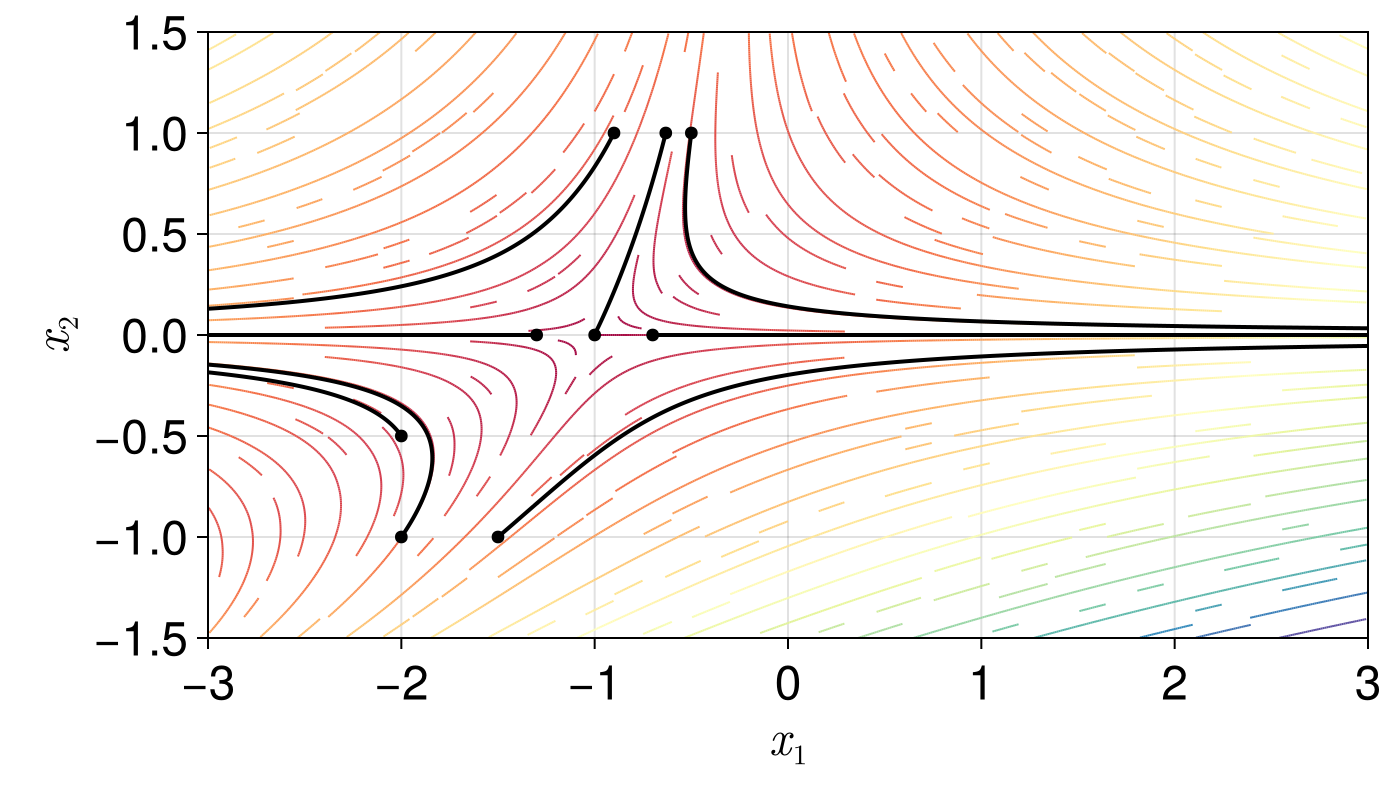
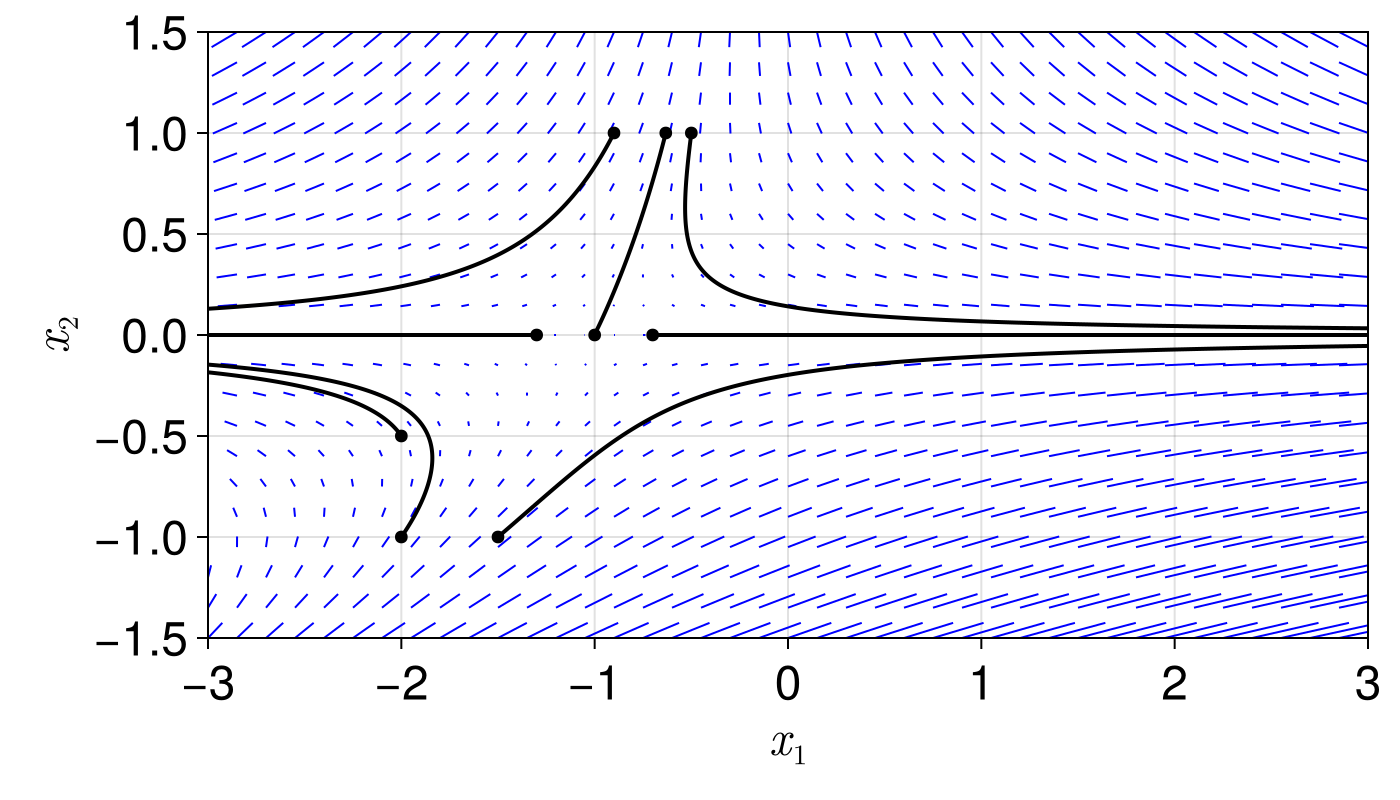
updated corrections from jupyter notebook in readme

Changed region(s): [[0.1536, 0.0312, 0.9829, 0.8125], [0.1536, 0.4688, 0.2764, 0.5938]]

diff --git a/README.md b/README.md
@@ -1,4 +1,4 @@
-## Introduction 
+# Introduction 
 
 This repository contains a Jupyter Notebook that is an extract from [Nonlinear Dynamics and Chaos](https://www.biodyn.ro/course/literatura/Nonlinear_Dynamics_and_Chaos_2018_Steven_H._Strogatz.pdf) — a well-structured book for learning that provides an intuitive introduction to the analysis of nonlinear differential equations from a geometric perspective.
 
@@ -9,35 +9,36 @@ I've also documented all the [plotting functions](utils.jl) so that you can expe
 
 The rest of this README file outlines the content of the Jupyter Notebook.
 
-## Preview - Jupyter Notebook 
+# Preview - Jupyter Notebook 
 
 ```julia
 include("utils.jl");
 ```
 
-### Examples and definitions in the context of linear systems (but useful for nonlinear ones)
-Strogatz explains the concept of the <font color="red">**phase space**</font> by starting from an easy two dimensional linear systems. As e.g. the *simple harmonic oscillator* characterised by 
+## Examples and definitions in the context of linear systems (but useful for nonlinear ones)
+Strogatz explains the concept of the <font color="red">**phase space**</font> by starting from linear two dimensional systems. As e.g. the [*simple harmonic oscillator*](https://en.wikipedia.org/wiki/Simple_harmonic_motion), which is characterized by a linear second order differential equation:
+$$ \ddot{x} + \omega^2 x = 0$$
+with $\omega^2 = \frac{k}{m}$, where $k$ is the spring constant and $m$ the mass. $x$ is the displacement from the equilibrium position. This second order equation can be brought in first order form by defining $\dot{x} = v$:
 
 $$\begin{align}
     & \dot{x} = v \\
     & \dot{v} = - \frac{k}{m} x 
 \end{align}$$
 
-A vector $(\dot{x},\dot{v})= (v,-\omega^2 x)$  with  $\omega^2 = \frac{k}{m}$ is assigned to each point $(x,v)$. This can be represented as a <font color="red">**vector field**</font>. 
+A vector $(\dot{x},\dot{v})= (v,-\omega^2 x)$  is now assigned to each point $(x,v)$. Hence, the system represents a two-dimensional <font color="red">**vector field**</font>, as shown in the figure below. 
 
 ```julia
-linear_harmonic_oscillator_vector_field(;xlims=(-1,1),ylims=(-1,1),xh=0.15, yh=0.15)
+linear_harmonic_oscillator_vector_field(;xlims=(-1,1),ylims=(-1,1),xh=0.15, yh=0.15, k = 0.5, m = 1)
 ```
 
 <!-- <img width=700 height=400 style='object-fit: contain; height: auto;' src="nonlinear-systems-intro_files/nonlinear-systems-intro_2_0.png"/> -->
 ![vector field of linear harmonic oscillator](nonlinear-systems-intro_files/nonlinear-systems-intro_2_0.png)
 
-It can be imagined as a fluid field, with local velocity $(\dot{x},\dot{v}) = (v,-\omega^2 x)$. A trajectory of an imaginary particle we place in the field starts at the point where we set it in the field, a point $(x_0, v_0)$ called <font color="red">**phase point**</font> (generally all points in the phase space).
+It can be imagined as a fluid field, with local velocity $(\dot{x},\dot{v}) = (v,-\omega^2 x)$. The trajectory of an imaginary particle we place in the field starts at the point $(x_0, v_0)$ (the initial condition) and then follows the flow indicated by the vector field. Such an a imaginary particle is also called <font color="red">**phase point**</font>.
 
-The origin is a special point. A phase point placed there would remain motionless, as $(\dot{x},\dot{v})=0$ when $(x,v)=0$. The origin is therefore a <font color="red">**fixed point**</font>.
+The origin is a special point. A phase point placed there would remain motionless, as $(\dot{x},\dot{v})=0$ when $(x,v)=0$. The origin is a so-called <font color="red">**fixed point**</font>.
 
-A phase point starting anywhere else, would circulate aroung the origin and pass again through its starting point. Such a trajectory, where something passes again through the starting point, forms a <font color="red">**closed orbit**</font>. 
-
+A phase point starting anywhere else, would circulate aroung the origin and pass again through its starting point. Such a trajectory, where a phase point passes again through the starting point, forms a <font color="red">**closed orbit**</font>. 
 
 ```julia
 linear_harmonic_oscillator_phase_portrait(;num_traj=5, tf=10, h=0.01,xlims=(-2,2),ylims=(-1,1),xh=0.05, yh=0.05)
@@ -45,14 +46,14 @@ linear_harmonic_oscillator_phase_portrait(;num_traj=5, tf=10, h=0.01,xlims=(-2,2
 <!-- <img width=700 height=400 style='object-fit: contain; height: auto;' src="nonlinear-systems-intro_files/nonlinear-systems-intro_4_0.png"/> -->
 ![phase portrait of linear harmonic oscillator](nonlinear-systems-intro_files/nonlinear-systems-intro_4_0.png)
 
-Here we can see a picture of some random trajectories in the phase space, all forming closed orbits. This kind of plot is calles <font color="red">**phase portrait**</font>.
+Here we can see a picture of some trajectories with random initial condition (black dot), all forming closed orbits. This kind of plot, showing one or more trajectories in the phase space, is called <font color="red">**phase portrait**</font>.
 
-What do the concepts of fixed points and closed orbits further tell us ?
+What does the concept of fixed points and closed orbits further tell us ?
 
 - At the fixed point $(x,v)=0 $, the system is in a <font color="red">*static equilibrium*</font> . This means the mass will remain there forever because the forces are balanced.
-- The periodic orbits correspond to periodic motions, in this case the oscillation of the mass (up and down) 
+- The periodic orbits correspond to periodic motions, in this case the oscillation of the mass (up and down)  
 
-Some more of the differential geometry-specific language is explained by means of the <font color="red">**uncoupled**</font> linear system
+More types of fixed points are explained by means of the <font color="red">**uncoupled**</font> linear system
 
 $$\begin{bmatrix}
     \dot{x}\\
@@ -74,7 +75,7 @@ $$\begin{align*}
     & y(t) = y_0 e^{-t} \\ 
 \end{align*}$$
 
-From these equations we can see, that $y(t)$ always decays exponentially, while the decay of $x(t)$ depends on the factor $a$. Below the the phase plots for differents values of $a$ are depicted. 
+From these equations we can see, that $y(t)$ always decays exponentially, while the decay of $x(t)$ depends on the factor $a$. Below the the phase plots for differents values of $a$ are depicted, with the vertical and horizontal axis representing $y(t)$ and $x(t)$, respectively.
 
 
 ```julia
@@ -84,33 +85,35 @@ uncoupled_linear_system_phase_portraits(;a = [-1.5, -1, -0.25, 0, 0.5], tr = 0:0
 <!-- <img width=1500 height=200 style='object-fit: contain; height: auto;' src="nonlinear-systems-intro_files/nonlinear-systems-intro_7_0.png"/> -->
 ![phase portraits of uncoupled linear systems](nonlinear-systems-intro_files/nonlinear-systems-intro_7_0.png)
 
-The initial phase point for each trajectory is depicted by a little dot. This makes it possible to see where all trajectories end.
+The initial condition for each trajectory is depicted by a little dot. This makes it possible to see where all trajectories end.
 
 - a) $a<-1$. The fixed point $\mathbf{x^\star} = \mathbf{0}$ is a <font color="red">**stable node**</font>
 . Trajectories approach the stable node tangent to the *slower*  y-direction. 
 
-- b) $a=-1$. $\mathbf{x^\star}$ is called symmetrical node or **star**.
+- b) $a=-1$. $\mathbf{x^\star}$ is called symmetrical node or **star**. The decay rate in x-direction and y-direction are equal.
 
 - c) $-1<a<0$. The fixed point $\mathbf{x^\star}$ the same as in a) but here the *slower* direction is the x-direction. 
   
 - d) $a=0$ makes a dramatic change. With this, the first equation becomes $x(t)=x_0$ so each trajectory evolves parallel to the y-axis. There is a **line of fixed points** along the x-axis.
 
-- e) When $a>0$, $\mathbf{x^\star} = \mathbf{0}$ becomes unstable, as most trajectories grow exponentially in x-direction. Almost all trajectories diverge from $\mathbf{x^\star}$ and go to infinity. An exemption is a trajectory that starts on the y-axis. It will converge towards the origin. When going forward in time, trajectories are asymptotic to the x-axis. $\mathbf{x^\star} = \mathbf{0}$ is a <font color="red">**saddle point**</font>. The y-axis is the <font color="red">**stable manifold**</font> of the saddle point $\mathbf{x^\star}$. Per definition an stable manifold is the set if intial conditons, s.t. $\mathbf{x}(t) \rightarrow \mathbf{x^\star}$ when $t \rightarrow \infty$. In backward time, the trajectories become asymptotic to the x-axis. Here the x-axis becomes per definition the <font color="red">**unstable manifold**</font> as trajectories with $x_0$ on the x-axis converge towards the origin ($\mathbf{x}(t) \rightarrow \mathbf{x^\star}$ when $t \rightarrow -\infty$)   
+- e) When $a>0$, $\mathbf{x^\star} = \mathbf{0}$ becomes unstable, as most trajectories grow exponentially in x-direction. Almost all trajectories diverge from $\mathbf{x^\star}$ and go to infinity. An exemption is a trajectory that starts on the y-axis. It will converge towards the origin. When going forward in time, trajectories are asymptotic to the x-axis. $\mathbf{x^\star} = \mathbf{0}$ is a <font color="red">**saddle point**</font>. The y-axis is the <font color="red">**stable manifold**</font> of the saddle point $\mathbf{x^\star}$. Per definition, a stable manifold is the set of intial conditons, s.t. $\mathbf{x}(t) \rightarrow \mathbf{x^\star}$ when $t \rightarrow \infty$. In backward time, the trajectories become asymptotic to the x-axis. Here the x-axis becomes per definition the <font color="red">**unstable manifold**</font> as trajectories with $x_0$ on the x-axis converge towards the origin ($\mathbf{x}(t) \rightarrow \mathbf{x^\star}$ when $t \rightarrow -\infty$)   
 
 ### Types of stability 
-This section will introduce some of the language that is used in the context of stability of different type fix points. It will be useful for analyzing fixed points of *nonlinear systems* (for now we are still looking at linear systems).
+This section will introduce some of the language that is used in the context of stability of different type fixed points. It will be useful for analyzing fixed points of *nonlinear systems* (for now we are still looking at linear systems).
 
-Going back to the previous plots, we can identify $\mathbf{x^\star} = \mathbf{0}$ as an <font color="red">**attracting**</font> fixed point in the phase plots a)-c), as all trajectories starting close to $\mathbf{x^\star}$ converge to it when $t \rightarrow \infty$ (i.e. $\mathbf{x}(t) \rightarrow \mathbf{x^\star}$ as $t \rightarrow \infty$).
+Going back to the previous graphic, we can identify $\mathbf{x^\star} = \mathbf{0}$ as an <font color="red">**attracting**</font> fixed point in the phase plots a)-c), as all trajectories starting close to $\mathbf{x^\star}$ converge to it when $t \rightarrow \infty$ (i.e. $\mathbf{x}(t) \rightarrow \mathbf{x^\star}$ as $t \rightarrow \infty$).
 In fact, all trajectories converge to $\mathbf{x^\star}$, regardless from which point they start in the phase plane, hence it can be also called <font color="red">**global attractor**</font>. 
 
-A <font color="red">**lyapunov stable**</font> fixed point ensures that trajectories starting close to it, will remain close to it, regardless of $t \rightarrow \infty$ or $t \rightarrow -\infty$, for *all times*. For a)-d) the origin is Lyapunov stable.
+A <font color="red">**Lyapunov stable**</font> fixed point ensures that trajectories starting close to it, will remain close to it, regardless of $t \rightarrow \infty$ or $t \rightarrow -\infty$, for *all times*. For a)-d) the origin is Lyapunov stable.
 
-Plot d) is an example of a lyapunov stable fixed point, which is *not attracting*. This is also termed <font color="red">**neutrally stable**</font>. Close trajectories ar neither neither attracted nor repelled. Another neutrally stable fixed point is the origin in the phase plot of the *harmonic oscillator* (second plot from above). <ins>Often this behaviour emerges in mechanical systems in the absence of friction</ins>.  The vice versa case is also possible (attracting but no lyapunov stability).
+Plot d) is an example of a Lyapunov stable fixed point, which is *not attracting*. This is also termed <font color="red">**neutrally stable**</font>. Close trajectories ar neither neither attracted nor repelled. Another neutrally stable fixed point is the origin in the phase plot of the *harmonic oscillator* (second plot from above). <ins>Often this behaviour emerges in mechanical systems in the absence of friction</ins>.  The opposite scenario is also possible (attracting but no Lyapunov stability).
 
 If a point is Lyapunov stable **and** attracting, it is called <font color="red">**stable**</font> or <font color="red">**asymptotically stable**</font>. If its neither attracting nor lyapunov stable, a fixed point is <font color="red">**unstable**</font>, as the origin in plot d).
 
-### The phase plane and two dimensional *nonlinear* systems
-With all these definitions at hand, we can now start the analysis of nonlinear systems, including their fixed points and topological tools for analysing phase portraits. Analytical solutions are generally not feasible but the qualitative analysis of the phase plane can offer valuable insights. Latter can be depticed using a numerical integrator as e.g. RK4 (see code for phase plot of the oscillator). Instead of using arrows, it can be clearer to use a plot of the <font color="red">**direction field**</font>.
+## The phase plane and two dimensional *nonlinear* systems
+With all these definitions at hand, we can now start the analysis of nonlinear systems, including their fixed points and topological tools for analyzing phase portraits. Analytical solutions are generally not feasible but the qualitative analysis of the phase plane can offer valuable insights. Solutions can be approximated by means of numerical methods, such as fourth-order Runge Kutta integration. 
+
+Instead of using arrows for depicting the vector field represented by a differential equation, it can be clearer to use a plot of the <font color="red">**direction field**</font>, as shown below for the system $\dot{x}_1 + x + e^{-x_2} \;, \; \dot{x}_2 = -x_2$:
 
 ```julia
 nonlinear_system_direction_field(initial_conditions = [-0.5,1, -0.9,1,-2,-1, -2,-0.5 ,-1,0 ,-1.3,0 ,-0.7,0 ,-0.63215,1, -1.5,-1], h = 0.01, tf = 6, xlims=(-3,3),ylims=(-1.5,1.5),xh=0.15, yh=0.15)
@@ -118,7 +121,7 @@ nonlinear_system_direction_field(initial_conditions = [-0.5,1, -0.9,1,-2,-1, -2,
 
 ![direction field of a nonlinear system](nonlinear-systems-intro_files/nonlinear-systems-intro_11_0.png)
 
-A direction field has arrows instead of lines. Visibly the trajectories follow local slopes depicted by the lines. 
+The bold black lines represent numerical solutions the initial conditions denoted by the black dots, while the blue line segments are in fact the direction field. Visibly the trajectories follow local slopes depicted by the lines.  
 
 The **existence and uniqueness theorem** tells us, that the existence and uniqueness of a solution is guaranteed, as long as $\mathbf{f}(\mathbf{x})$ is continuously differentiable (no mathematical definition of the theorem here). This theorem has one important implication:
 - two (or more) different trajectories can not intersect.
@@ -128,7 +131,7 @@ Otherwise from the crossing point as starting point two different trajectories (
 - if additionally there are fixed points within $C$, $\mathbf{x}(t)$ might approach the fixed points.
 - if there is no fixed points, $\mathbf{x}(t)$ must approach a closed orbit. This is the <font color="red">**Pointcaré-Bendixson theorem**</font> for vector fields on the plane.  
 
-#### Linearization around a fixed point
+### Linearization around a fixed point
 
 <font color="red">**Linearization**</font> is done as usual by a <font color="red">**Taylor approximation**</font>:
 We linearize the system
@@ -151,16 +154,16 @@ If we linearize the system around a fixed point, neglecting the quadratic rest f
 When not interested in the geometry of trajectories but only in stability properties, fixed points can be characterized as:
 
 **Robust cases**:
-- *Repellers*/ *sources*: For both eigenvalues $Re(\lambda)>0$ 
-- *Attractors*/ *sinks*: For both eigenvalues $Re(\lambda)<0$ 
-- *Saddles*: One eigenvalues $Re(\lambda)<0$, other eigenvalues $Re(\lambda)>0$ 
+- *Repellers*/ *sources*: For both eigenvalues $Re(\lambda_i)>0$ 
+- *Attractors*/ *sinks*: For both eigenvalues $Re(\lambda_i)<0$ 
+- *Saddles*: One eigenvalues $Re(\lambda_1)<0$, other eigenvalues $Re(\lambda_2)>0$ 
 
 **Marginal cases**:
-- *Centers*: Both eigenvalues $Re(\lambda)=0$ (purely imaginary) (see phase portrait of the simple harmonic oscillator)
-- *Higher-order* and *non-isolated fixed points*: At least one eigenvalues $Re(\lambda)=0$ 
+- *Centers*: Both eigenvalues $Re(\lambda_i)=0$ (purely imaginary) (see phase portrait of the simple harmonic oscillator)
+- *Higher-order* and *non-isolated fixed points*: At least one eigenvalues $Re(\lambda_i)=0$ 
 
-If $Re(\lambda) \neq 0$ for both eigenvalues, the fixed point is also called <font color="red">**hyperbolic**</font>. At this kind of fixed point, the stability is unaffected by small nonlinear terms. In other words, the stability is accurately predicted by the linearization. This can be generalized to n-th order systems:  
-- If all the eigenvalues of the linarized system (at the fixed point) lie off the imaginary axis (i.e. $Re(\lambda_i) \neq 0$ for $i = 1,\dots,n$), the fixed point is **hyperbolic**
+If $Re(\lambda_i) \neq 0$ for both eigenvalues, the fixed point is also called <font color="red">**hyperbolic**</font>. At this kind of fixed point, the stability is unaffected by small nonlinear terms. In other words, the stability is accurately predicted by the linearization. This can be generalized to n-th order systems:  
+- If all the eigenvalues of the linarized system (at the fixed point) lie off the imaginary axis (i.e. $Re(\lambda_i) \neq 0$ for $i = 1,\dots,n$), the fixed point is **hyperbolic**.
 
 The preservation of the stability property is substantiated by the <font color="red">**Hartman-Grobman theorem**</font>, which reveals that a local phase portrait, near a hyperbolic fixed point is <font color="red">**topologically equivalent**</font> to the phase portrait of the linearization. Topologically equivalent means there is a <font color="red">**homeomorphism**</font> (continuous deformation with continuous inverse), mapping the local phase portrait onto the phase portrait of the linearization. This implies that proportions between trajectories and their direction (sense of time) is preseved.
 
@@ -187,14 +190,14 @@ The system <font color="red">*total energy*</font>
 
 $$ E = \frac{1}{2} m\dot{x}^2 + V(x) $$
 
-is, for any given solution $x(t)$, constant w.r.t. time. Systems that are governed by such a conserved quantity are <font color="red">**conservative systems**</font>. In more general words, given a system $\mathbf{\dot{x}} = \mathbf{f}(\mathbf{x})$, the real-valued and continuous function $E(x)$ is a <font color="red">**conserved quantity**</font>, if it is constant on trajectories (i.e. $dE/dt = 0$). To prevent someone from finding a function like $E(x) \equiv 0$ for every system (every system would accordingly be conservative), a second requirement for $E(x)$ is to be *nonconstant* on every open set, which defines a region in space (opposed to a trajectory, which defined a position over time).     
+is, for any given solution $x(t)$, constant w.r.t. time. Systems that are governed by such a conserved quantity are <font color="red">**conservative systems**</font>. In more general words, given a system $\mathbf{\dot{x}} = \mathbf{f}(\mathbf{x})$, the real-valued and continuous function $E(x)$ is a <font color="red">**conserved quantity**</font>, if it is constant on trajectories (i.e. $dE/dt = 0$). To prevent someone from finding a function like $E(x) \equiv 0$ for every system (every system would accordingly be conservative), a second requirement for $E(x)$ is to be *nonconstant* on every open set, which defines a region in space.         
 
 We can show, using above defintion, that <ins>a conservative system cannot have any attracting fixed points</ins>. To this end, shortly the term <font color="red">**basin of attraction**</font> is explained:
 - given an attracting fixed point $\mathbf{\dot{x}}$, we can define its **basin of attraction** a the set of initial conditions $\mathbf{x}_0$ sucht that $\mathbf{x}(t) \rightarrow \mathbf{x}^\star$ when $t \rightarrow \infty$.
 - a basin of attraction can be separated from other basins of attraction by a <font color="red">**basin boundary**</font>. The latter can be a **stable manifold** (explained in first section) leading to some saddle point
 - if the **basin boundary** consists of more segments/ trajectories, these are commonly called  <font color="red">**separatrices**</font>.
 - basins and their boundaries partition the phase space into regions where trajectories exhibit different long-term behaviour and are therefore important. 
-
+ 
 With this definition at hand, we can say that, supposed there is an attracting fixed point $\mathbf{x}^\star$, all the points in the corresponding basin of attraction would have to be at the same energy level as $E(\mathbf{x}^\star)$. So, $E(\mathbf{x})$ must be a constant function for every $\mathbf{x}$ in the basin. But at the same time, there is the requirement for the conserved quantity to be nonconstant over all open sets (basin of attraction is an open set), so these things contradict each other.
 
 Instead of attracting fixed points, one generally finds saddles and centers in conservative systems. One such example is a particle (mass $m=1$) in a double-well potential $V(x) = - \frac{1}{2}x^2 + \frac{1}{4}x^4$. Follwing the procedure in the above example, the force is $-dV/dx=x-x^3$ and accordingly the equation of motion is 
@@ -218,16 +221,16 @@ energy_function_and_phase_plane_double_well(;initial_conditions = [0,0.01, -1,0.
 ![energy function and phase plane of double well potential](nonlinear-systems-intro_files/nonlinear-systems-intro_14_0.png)
 
 
-In a) the <font color="red">**energy surface**</font> of the system is depicted, coming from the according energy function 
+In a) the <font color="red">**energy surface**</font> of the system is depicted, deduced from the according energy function 
 
 $$ E = \frac{1}{2}y^2 - \frac{1}{2}x^2 + \frac{1}{4}x^4 $$
 
-It can be computed as in the previous mass particel example. Interestingly, a trajectory in the phase space can be deduced from the projection of the <font color="red">**contours**</font> of the **energy surface** onto the phase plane, as shown in b). The contours represent levels of constant energy and as the system is energy conservative, a trajectory in the phase plane will always follow the projection of the according contour. 
+It can be computed as in the previous mass particel example. Interestingly, a trajectory in the phase space can be deduced from the projection of the <font color="red">**contours**</font> of the **energy surface** onto the phase plane. The contours represent levels of constant energy and as the system is energy conservative, a trajectory in the phase plane will always follow the projection of the according contour. 
 
-The indicated trajectory orbits show that almost all solutions are periodic. Excemption are the equilibrium solutions (white dots) and two special trajectories that seem to start and end at the origin (blue lines). As they start and end at the same fixed point, they are categorized as <font color="red">**homoclinic orbits**</font> (common in conservative systems). These are not periodic, as trajectories are forever trying to approach the origin.
+The indicated trajectory orbits in b) show that almost all solutions are periodic. Excemptions are the equilibrium solutions (white dots) and two special trajectories that seem to start and end at the origin (blue lines). As they start and end at the same fixed point, they are categorized as <font color="red">**homoclinic orbits**</font> (common in conservative systems). These are not periodic, as trajectories are forever trying to approach the origin.
 
-Tip from Strogatz: 
-- It can be helpful to think of the flow as happening on the energy surface rather than in the phase plane, but they would run *around* the surface as they must stay at a constant height E(x,y) - corresponding to the constant energy level. 
+Tipp from Strogatz: 
+- It can be helpful to think of the flow as happening on the energy surface rather than in the phase plane. Trajectories would run *around* the surface as they must stay at a constant height E(x,y) - corresponding to the constant energy level. 
 
 ### (Time) reversible systems
 
@@ -239,11 +242,12 @@ Departing from the equation of motion for a pendulum
 
 $$ \frac{d^2 \theta}{dt^2} + \frac{g}{L} sin(\theta) = 0  $$
 
-to simplify things we further assume $\frac{g}{L}=1$
+here $g$ is the gravity, $L$ the link lenght and $\theta$ the angle. 
+To simplify things we further assume $\frac{g}{L}=1$ and obtain
 
 $$\ddot{\theta} + sin(\theta) = 0 $$
 
-The system is reversible and also we can find a conservatived quantity $E$ by multiplying with $\dot{\theta}$
+The system is reversible and also we can find a conservatived quantity $E$ by multiplying with $\dot{\theta}$ and applying the chain rule in reverse:
 
 $$\frac{d}{dt}
     \begin{bmatrix}
@@ -259,8 +263,8 @@ energy_function_and_phase_plane_single_pendulum(;initial_conditions = [0,0.01, -
 <!-- <img width=1200 height=400 style='object-fit: contain; height: auto;' src="nonlinear-systems-intro_files/nonlinear-systems-intro_18_0.png"/> -->
 ![energy function and phase plane of single pendulum](nonlinear-systems-intro_files/nonlinear-systems-intro_18_0.png)
 
-The left hand side a) shows the energy surface and the projection of its contours onto the phase plane which is given by 
+The left hand side a) shows the energy surface and the projection of its contours onto the phase plane  which is obtained, as in the previous examples, by performing a substitution
 
 $$ \dot{\theta} = v \text{,} \quad \dot{v} = - sin(\theta)$$
 
-on the phase portait b) one can recognize two saddle points and a center at the origin. The center corresponds to the lowest possible energy state ($E=-1$), it is a neutrally stable equilibrium. The small orbits around it correspond to small oscillations around the equilibrium point, these are called <font color="red">**liberations**</font>. 
+One can recognize in b) a saddle point (blue dots) and a center at the origin (white dot). The center corresponds to the lowest possible energy state ($E=-1$), it is a neutrally stable equilibrium. The small orbits around it correspond to small oscillations around the equilibrium point, these are called <font color="red">**liberations**</font>. 
